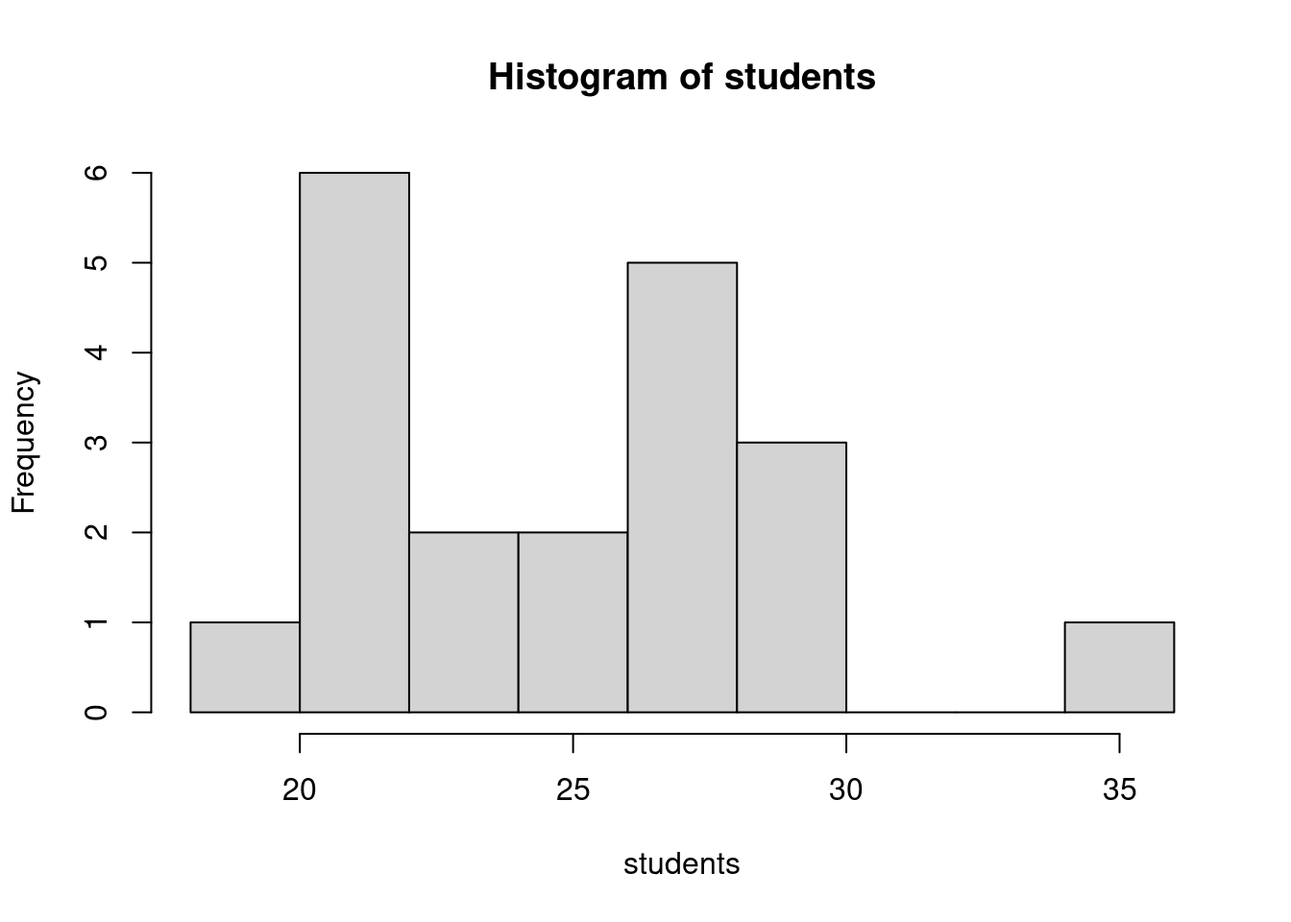
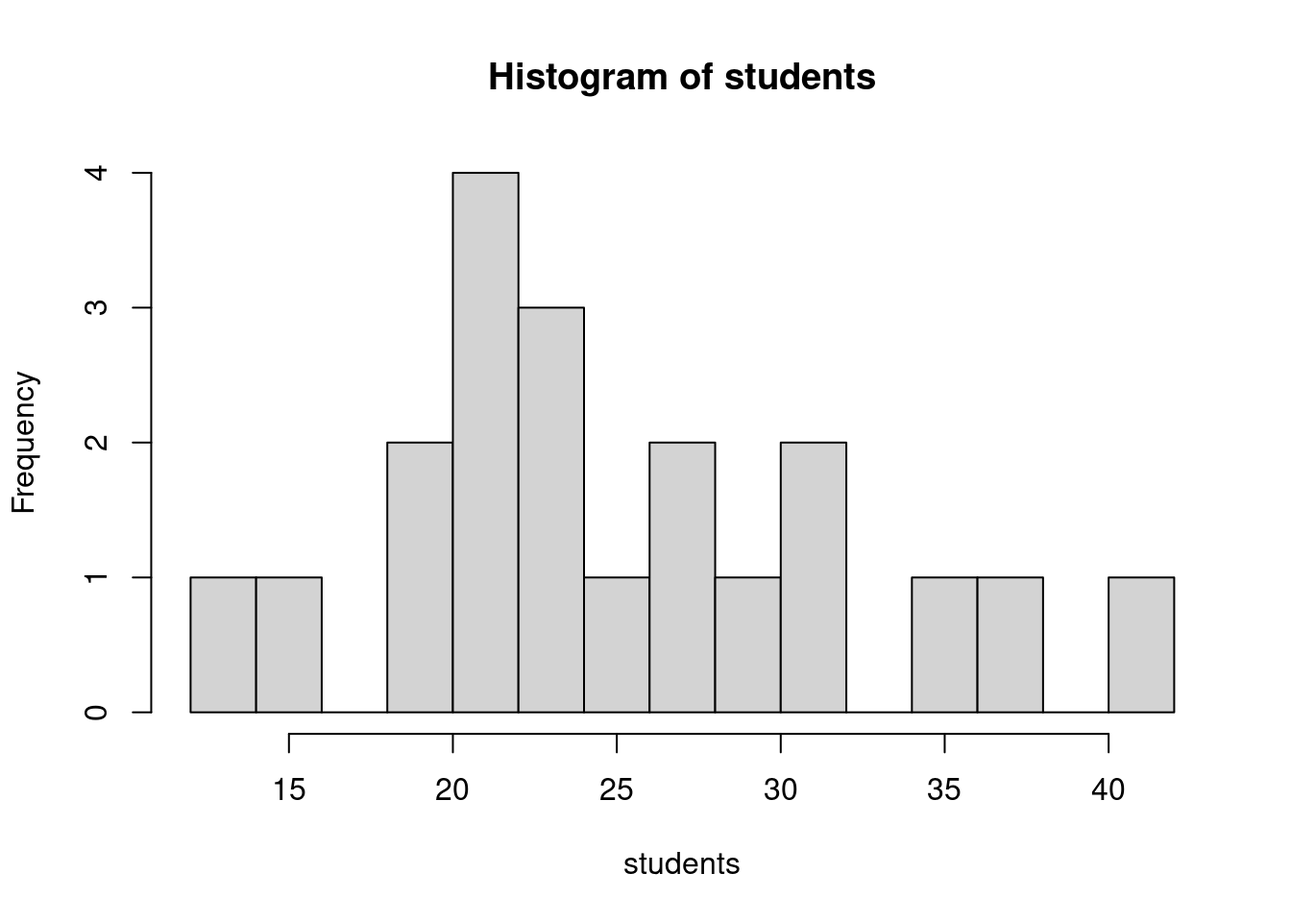
Added Expected Value

diff --git a/_book/discrete-probability.html b/_book/discrete-probability.html
@@ -24,7 +24,7 @@
 <meta name="author" content="Virgil U Pierce" />
 
 
-<meta name="date" content="2021-05-19" />
+<meta name="date" content="2021-05-20" />
 
   <meta name="viewport" content="width=device-width, initial-scale=1" />
   <meta name="apple-mobile-web-app-capable" content="yes" />
@@ -225,6 +225,11 @@ code span.wa { color: #60a0b0; font-weight: bold; font-style: italic; } /* Warni
 <li class="chapter" data-level="3.5.1" data-path="discrete-probability.html"><a href="discrete-probability.html#conclusion-to-the-motivating-question"><i class="fa fa-check"></i><b>3.5.1</b> Conclusion to the Motivating Question</a></li>
 <li class="chapter" data-level="3.5.2" data-path="discrete-probability.html"><a href="discrete-probability.html#general-cummulative-distribution-functions"><i class="fa fa-check"></i><b>3.5.2</b> General Cummulative Distribution Functions</a></li>
 </ul></li>
+<li class="chapter" data-level="3.6" data-path="discrete-probability.html"><a href="discrete-probability.html#motivating-problem---the-birthday-paradox"><i class="fa fa-check"></i><b>3.6</b> Motivating Problem - The Birthday Paradox</a></li>
+<li class="chapter" data-level="3.7" data-path="discrete-probability.html"><a href="discrete-probability.html#expected-value"><i class="fa fa-check"></i><b>3.7</b> Expected Value</a>
+<ul>
+<li class="chapter" data-level="3.7.1" data-path="discrete-probability.html"><a href="discrete-probability.html#the-expected-number-of-students-experiencing-food-insecurity"><i class="fa fa-check"></i><b>3.7.1</b> The Expected Number of Students Experiencing Food Insecurity</a></li>
+</ul></li>
 </ul></li>
 </ul>
 
@@ -325,18 +330,18 @@ code span.wa { color: #60a0b0; font-weight: bold; font-style: italic; } /* Warni
 <div class="sourceCode" id="cb1"><pre class="sourceCode r"><code class="sourceCode r"><span id="cb1-1"><a href="discrete-probability.html#cb1-1" aria-hidden="true" tabindex="-1"></a>x <span class="ot">&lt;-</span> <span class="fu">c</span>(<span class="st">&quot;H&quot;</span>, <span class="st">&quot;T&quot;</span>)</span>
 <span id="cb1-2"><a href="discrete-probability.html#cb1-2" aria-hidden="true" tabindex="-1"></a>result <span class="ot">&lt;-</span> <span class="fu">sample</span>(x, <span class="dv">200</span>, <span class="at">replace=</span><span class="cn">TRUE</span>)</span>
 <span id="cb1-3"><a href="discrete-probability.html#cb1-3" aria-hidden="true" tabindex="-1"></a>result</span></code></pre></div>
-<pre><code>##   [1] &quot;T&quot; &quot;T&quot; &quot;H&quot; &quot;T&quot; &quot;T&quot; &quot;H&quot; &quot;H&quot; &quot;T&quot; &quot;T&quot; &quot;T&quot; &quot;H&quot; &quot;H&quot; &quot;H&quot; &quot;T&quot; &quot;T&quot; &quot;T&quot; &quot;T&quot; &quot;T&quot;
-##  [19] &quot;T&quot; &quot;T&quot; &quot;H&quot; &quot;T&quot; &quot;T&quot; &quot;H&quot; &quot;T&quot; &quot;T&quot; &quot;H&quot; &quot;T&quot; &quot;T&quot; &quot;H&quot; &quot;T&quot; &quot;T&quot; &quot;T&quot; &quot;T&quot; &quot;H&quot; &quot;H&quot;
-##  [37] &quot;T&quot; &quot;H&quot; &quot;H&quot; &quot;H&quot; &quot;H&quot; &quot;T&quot; &quot;T&quot; &quot;T&quot; &quot;H&quot; &quot;H&quot; &quot;H&quot; &quot;H&quot; &quot;T&quot; &quot;T&quot; &quot;T&quot; &quot;T&quot; &quot;T&quot; &quot;T&quot;
-##  [55] &quot;H&quot; &quot;H&quot; &quot;T&quot; &quot;T&quot; &quot;T&quot; &quot;T&quot; &quot;H&quot; &quot;T&quot; &quot;T&quot; &quot;T&quot; &quot;T&quot; &quot;T&quot; &quot;H&quot; &quot;T&quot; &quot;H&quot; &quot;T&quot; &quot;H&quot; &quot;H&quot;
-##  [73] &quot;H&quot; &quot;H&quot; &quot;H&quot; &quot;H&quot; &quot;H&quot; &quot;H&quot; &quot;H&quot; &quot;H&quot; &quot;H&quot; &quot;T&quot; &quot;T&quot; &quot;T&quot; &quot;T&quot; &quot;T&quot; &quot;T&quot; &quot;T&quot; &quot;H&quot; &quot;H&quot;
-##  [91] &quot;T&quot; &quot;H&quot; &quot;T&quot; &quot;T&quot; &quot;T&quot; &quot;T&quot; &quot;T&quot; &quot;T&quot; &quot;H&quot; &quot;T&quot; &quot;T&quot; &quot;H&quot; &quot;T&quot; &quot;H&quot; &quot;T&quot; &quot;T&quot; &quot;T&quot; &quot;T&quot;
-## [109] &quot;T&quot; &quot;H&quot; &quot;T&quot; &quot;H&quot; &quot;H&quot; &quot;H&quot; &quot;H&quot; &quot;T&quot; &quot;H&quot; &quot;H&quot; &quot;H&quot; &quot;H&quot; &quot;T&quot; &quot;H&quot; &quot;H&quot; &quot;T&quot; &quot;H&quot; &quot;T&quot;
-## [127] &quot;T&quot; &quot;H&quot; &quot;H&quot; &quot;H&quot; &quot;T&quot; &quot;T&quot; &quot;H&quot; &quot;H&quot; &quot;H&quot; &quot;T&quot; &quot;H&quot; &quot;H&quot; &quot;H&quot; &quot;T&quot; &quot;H&quot; &quot;H&quot; &quot;T&quot; &quot;H&quot;
-## [145] &quot;H&quot; &quot;H&quot; &quot;T&quot; &quot;T&quot; &quot;T&quot; &quot;T&quot; &quot;T&quot; &quot;H&quot; &quot;H&quot; &quot;T&quot; &quot;T&quot; &quot;T&quot; &quot;T&quot; &quot;T&quot; &quot;T&quot; &quot;H&quot; &quot;H&quot; &quot;T&quot;
-## [163] &quot;H&quot; &quot;H&quot; &quot;T&quot; &quot;T&quot; &quot;H&quot; &quot;H&quot; &quot;H&quot; &quot;T&quot; &quot;H&quot; &quot;H&quot; &quot;T&quot; &quot;T&quot; &quot;T&quot; &quot;T&quot; &quot;H&quot; &quot;H&quot; &quot;T&quot; &quot;T&quot;
-## [181] &quot;H&quot; &quot;H&quot; &quot;H&quot; &quot;H&quot; &quot;T&quot; &quot;H&quot; &quot;T&quot; &quot;H&quot; &quot;T&quot; &quot;H&quot; &quot;H&quot; &quot;T&quot; &quot;H&quot; &quot;H&quot; &quot;T&quot; &quot;T&quot; &quot;H&quot; &quot;T&quot;
-## [199] &quot;H&quot; &quot;H&quot;</code></pre>
+<pre><code>##   [1] &quot;T&quot; &quot;H&quot; &quot;T&quot; &quot;H&quot; &quot;T&quot; &quot;T&quot; &quot;H&quot; &quot;T&quot; &quot;H&quot; &quot;H&quot; &quot;T&quot; &quot;T&quot; &quot;T&quot; &quot;T&quot; &quot;H&quot; &quot;T&quot; &quot;T&quot; &quot;T&quot;
+##  [19] &quot;H&quot; &quot;H&quot; &quot;T&quot; &quot;T&quot; &quot;H&quot; &quot;T&quot; &quot;T&quot; &quot;T&quot; &quot;T&quot; &quot;H&quot; &quot;T&quot; &quot;H&quot; &quot;T&quot; &quot;T&quot; &quot;H&quot; &quot;H&quot; &quot;T&quot; &quot;T&quot;
+##  [37] &quot;H&quot; &quot;H&quot; &quot;H&quot; &quot;T&quot; &quot;H&quot; &quot;H&quot; &quot;T&quot; &quot;H&quot; &quot;T&quot; &quot;T&quot; &quot;H&quot; &quot;T&quot; &quot;T&quot; &quot;H&quot; &quot;T&quot; &quot;H&quot; &quot;H&quot; &quot;H&quot;
+##  [55] &quot;T&quot; &quot;T&quot; &quot;T&quot; &quot;H&quot; &quot;H&quot; &quot;T&quot; &quot;H&quot; &quot;H&quot; &quot;H&quot; &quot;H&quot; &quot;H&quot; &quot;H&quot; &quot;T&quot; &quot;T&quot; &quot;T&quot; &quot;T&quot; &quot;T&quot; &quot;H&quot;
+##  [73] &quot;T&quot; &quot;T&quot; &quot;T&quot; &quot;H&quot; &quot;T&quot; &quot;T&quot; &quot;T&quot; &quot;T&quot; &quot;H&quot; &quot;H&quot; &quot;T&quot; &quot;H&quot; &quot;T&quot; &quot;T&quot; &quot;H&quot; &quot;T&quot; &quot;T&quot; &quot;H&quot;
+##  [91] &quot;H&quot; &quot;T&quot; &quot;T&quot; &quot;H&quot; &quot;T&quot; &quot;H&quot; &quot;H&quot; &quot;T&quot; &quot;H&quot; &quot;H&quot; &quot;T&quot; &quot;H&quot; &quot;H&quot; &quot;T&quot; &quot;H&quot; &quot;T&quot; &quot;T&quot; &quot;H&quot;
+## [109] &quot;T&quot; &quot;H&quot; &quot;H&quot; &quot;T&quot; &quot;H&quot; &quot;T&quot; &quot;H&quot; &quot;T&quot; &quot;T&quot; &quot;T&quot; &quot;H&quot; &quot;T&quot; &quot;T&quot; &quot;T&quot; &quot;T&quot; &quot;H&quot; &quot;H&quot; &quot;T&quot;
+## [127] &quot;H&quot; &quot;H&quot; &quot;H&quot; &quot;T&quot; &quot;T&quot; &quot;H&quot; &quot;T&quot; &quot;T&quot; &quot;T&quot; &quot;T&quot; &quot;T&quot; &quot;T&quot; &quot;H&quot; &quot;H&quot; &quot;H&quot; &quot;T&quot; &quot;H&quot; &quot;H&quot;
+## [145] &quot;T&quot; &quot;H&quot; &quot;T&quot; &quot;H&quot; &quot;H&quot; &quot;H&quot; &quot;H&quot; &quot;H&quot; &quot;H&quot; &quot;T&quot; &quot;H&quot; &quot;T&quot; &quot;T&quot; &quot;H&quot; &quot;T&quot; &quot;H&quot; &quot;T&quot; &quot;H&quot;
+## [163] &quot;T&quot; &quot;T&quot; &quot;H&quot; &quot;H&quot; &quot;T&quot; &quot;T&quot; &quot;T&quot; &quot;T&quot; &quot;T&quot; &quot;T&quot; &quot;T&quot; &quot;H&quot; &quot;H&quot; &quot;T&quot; &quot;H&quot; &quot;H&quot; &quot;T&quot; &quot;H&quot;
+## [181] &quot;H&quot; &quot;T&quot; &quot;T&quot; &quot;T&quot; &quot;H&quot; &quot;H&quot; &quot;T&quot; &quot;T&quot; &quot;H&quot; &quot;T&quot; &quot;H&quot; &quot;H&quot; &quot;T&quot; &quot;H&quot; &quot;T&quot; &quot;T&quot; &quot;H&quot; &quot;H&quot;
+## [199] &quot;T&quot; &quot;T&quot;</code></pre>
 <p>You can also pass the sample command a list of probabilities for each element of x; note that order matters so check it. For a fair coin the default of each outcome being equally likely works. However note that unfair coins are not unheard of - you can purchase them at magic and toy shops.</p>
 <p>A typical human trying to fake coin flips will distribute them too uniformly and will not have as many long sequences of “H” as we expect to see from an actual experiment.</p>
 </div>
@@ -346,16 +351,16 @@ code span.wa { color: #60a0b0; font-weight: bold; font-style: italic; } /* Warni
 <div class="sourceCode" id="cb3"><pre class="sourceCode r"><code class="sourceCode r"><span id="cb3-1"><a href="discrete-probability.html#cb3-1" aria-hidden="true" tabindex="-1"></a>x <span class="ot">&lt;-</span> <span class="fu">c</span>(<span class="dv">1</span>, <span class="dv">0</span>)</span>
 <span id="cb3-2"><a href="discrete-probability.html#cb3-2" aria-hidden="true" tabindex="-1"></a>result <span class="ot">&lt;-</span> <span class="fu">sample</span>(x, <span class="dv">130</span>, <span class="at">replace =</span> <span class="cn">TRUE</span>, <span class="at">prob=</span><span class="fu">c</span>(<span class="fl">0.38</span>, <span class="fl">0.62</span>) )</span>
 <span id="cb3-3"><a href="discrete-probability.html#cb3-3" aria-hidden="true" tabindex="-1"></a>result</span></code></pre></div>
-<pre><code>##   [1] 0 1 0 1 1 1 0 1 1 0 1 0 0 1 0 0 0 0 0 0 0 0 0 1 0 1 0 1 0 0 0 0 0 1 0 0 1
-##  [38] 0 1 0 1 0 0 1 1 0 1 0 0 0 1 1 0 0 0 0 1 0 0 0 0 1 0 0 1 1 0 1 0 1 0 0 1 1
-##  [75] 1 1 0 0 0 0 1 0 0 0 1 0 0 0 0 1 0 1 0 0 0 1 0 0 0 0 0 0 0 1 1 0 1 0 0 0 0
-## [112] 1 1 0 0 0 0 1 1 1 1 1 1 1 0 1 0 0 0 1</code></pre>
+<pre><code>##   [1] 0 0 1 1 0 0 0 0 0 0 0 0 0 1 1 0 0 0 0 1 1 0 1 0 1 0 0 0 1 0 0 0 1 0 0 0 1
+##  [38] 0 0 0 0 1 0 0 1 1 0 1 0 1 0 1 1 0 0 1 1 0 1 0 1 0 0 0 1 0 1 0 0 1 0 0 0 0
+##  [75] 0 1 0 1 1 1 0 1 0 1 1 1 0 0 1 0 1 1 0 0 0 0 0 1 0 1 0 0 1 1 1 0 0 1 0 0 0
+## [112] 0 1 1 0 0 1 1 1 0 0 0 0 0 0 0 0 0 0 0</code></pre>
 <p>You may notice that rather than using strings for the entries in <em>x</em> I used 1 and 0. The reason is that what we care about is the number of students that are food insecure, this is our random variable of interest and now we can compute its value by just summing up the numbers in <em>result</em> the value of which will be the number of 1s.</p>
 <div class="sourceCode" id="cb5"><pre class="sourceCode r"><code class="sourceCode r"><span id="cb5-1"><a href="discrete-probability.html#cb5-1" aria-hidden="true" tabindex="-1"></a><span class="fu">sum</span>(result)</span></code></pre></div>
-<pre><code>## [1] 49</code></pre>
+<pre><code>## [1] 47</code></pre>
 <p>Because the <em>sample</em> command uses (pseudo)-random numbers, if we run this again we will get a different result (also note each time I compile this textbook the values change). Do it a few times yourself and see what we get.</p>
 <div class="sourceCode" id="cb7"><pre class="sourceCode r"><code class="sourceCode r"><span id="cb7-1"><a href="discrete-probability.html#cb7-1" aria-hidden="true" tabindex="-1"></a><span class="fu">sum</span>(<span class="fu">sample</span>(x, <span class="dv">130</span>, <span class="at">replace=</span><span class="cn">TRUE</span>, <span class="at">prob=</span><span class="fu">c</span>(<span class="fl">0.38</span>, <span class="fl">0.62</span>)))</span></code></pre></div>
-<pre><code>## [1] 42</code></pre>
+<pre><code>## [1] 35</code></pre>
 <p>This is a little bit tedious to run a bunch of times and we also should be keeping track of the results. For example, what is the smallest value you have seen so far? Luckily, one of the things computers are absolutely brilliant at is doing the same thing over and over and keeping track of the results. Let me introduce you to one of the two real programming structures we will use in this class: a <em>for loop</em>. A for loop tells the computer to complete the same set of commands multiple times.</p>
 <div class="sourceCode" id="cb9"><pre class="sourceCode r"><code class="sourceCode r"><span id="cb9-1"><a href="discrete-probability.html#cb9-1" aria-hidden="true" tabindex="-1"></a><span class="co"># We are going to keep track of the results in a variable called trials, so we first initalize this variable as an empty column</span></span>
 <span id="cb9-2"><a href="discrete-probability.html#cb9-2" aria-hidden="true" tabindex="-1"></a>trials <span class="ot">&lt;-</span> <span class="fu">c</span>()</span>
@@ -369,17 +374,17 @@ code span.wa { color: #60a0b0; font-weight: bold; font-style: italic; } /* Warni
 <span id="cb9-10"><a href="discrete-probability.html#cb9-10" aria-hidden="true" tabindex="-1"></a>}</span>
 <span id="cb9-11"><a href="discrete-probability.html#cb9-11" aria-hidden="true" tabindex="-1"></a></span>
 <span id="cb9-12"><a href="discrete-probability.html#cb9-12" aria-hidden="true" tabindex="-1"></a>trials</span></code></pre></div>
-<pre><code>##   [1] 50 54 38 58 48 44 44 51 49 35 50 54 53 41 42 58 49 45 44 51 63 51 48 40 52
-##  [26] 49 46 50 47 49 56 47 49 49 50 51 54 53 42 46 56 49 38 61 46 50 42 51 48 41
-##  [51] 40 49 38 47 53 41 43 58 57 42 48 38 53 48 47 51 52 38 50 48 56 53 61 50 61
-##  [76] 41 43 43 43 50 53 48 49 39 50 42 49 48 47 51 57 50 51 52 47 47 56 42 49 49</code></pre>
+<pre><code>##   [1] 42 42 56 44 53 48 43 45 54 49 44 50 45 51 47 47 52 47 54 51 51 48 53 49 56
+##  [26] 58 53 54 52 44 55 57 48 54 59 46 46 49 55 44 45 54 50 47 49 60 49 39 50 62
+##  [51] 45 54 41 43 47 43 44 53 47 59 49 46 58 42 46 64 41 47 49 51 46 48 49 52 49
+##  [76] 51 49 55 46 49 58 51 50 46 42 48 56 50 47 49 51 54 44 40 49 43 59 64 43 44</code></pre>
 <p>Let’s use a historgram to look at the result:</p>
 <div class="sourceCode" id="cb11"><pre class="sourceCode r"><code class="sourceCode r"><span id="cb11-1"><a href="discrete-probability.html#cb11-1" aria-hidden="true" tabindex="-1"></a><span class="co"># The paramter breaks is determining how many bins to use</span></span>
 <span id="cb11-2"><a href="discrete-probability.html#cb11-2" aria-hidden="true" tabindex="-1"></a><span class="fu">hist</span>(trials, <span class="at">breaks=</span><span class="dv">10</span>)</span></code></pre></div>
 <p><img src="_main_files/figure-html/unnamed-chunk-6-1.png" width="672" /></p>
 <div class="sourceCode" id="cb12"><pre class="sourceCode r"><code class="sourceCode r"><span id="cb12-1"><a href="discrete-probability.html#cb12-1" aria-hidden="true" tabindex="-1"></a><span class="fu">summary</span>(trials)</span></code></pre></div>
 <pre><code>##    Min. 1st Qu.  Median    Mean 3rd Qu.    Max. 
-##   35.00   44.00   49.00   48.50   51.25   63.00</code></pre>
+##   39.00   46.00   49.00   49.51   53.00   64.00</code></pre>
 <p>So interestingly the minimum value is not very small. What does this tell us about the number of mathematics majors we might see that are food insecure? What would our interpretation be if we found only 10 of the mathematics majors were food insecure?</p>
 <p>Finally you can probably tell me you are not surprised that the mean is close to</p>
 <div class="sourceCode" id="cb14"><pre class="sourceCode r"><code class="sourceCode r"><span id="cb14-1"><a href="discrete-probability.html#cb14-1" aria-hidden="true" tabindex="-1"></a><span class="fl">0.38</span> <span class="sc">*</span> <span class="dv">130</span></span></code></pre></div>
@@ -488,7 +493,40 @@ code span.wa { color: #60a0b0; font-weight: bold; font-style: italic; } /* Warni
 <p>Note: We only plotted the distribution function at integer values of r because it is zero everywhere else. However the cumulative distribution function gives the probability that <span class="math inline">\(Y \leq r\)</span> and so it has a step like behavior.</p>
 <p>Note: I generally LOVE using software to draw plots as I am an awful artist - most of my low grades in math classes like trigonometry and geometry in high school were because of my drawings. However one place where software consistently messes us up is in drawing step functions - this picture would be better without the vertical lines connecting the horizontal segments.</p>
 <p>Vary p and n to see how the plot changes. In particular for small values of n the steps should become more prominent. You might have to increase the 10 in the code snippet to get the mesh to be finer - if you notice the vertical segments are not looking very vertical this is what should be changed.</p>
+</div>
+</div>
+<div id="motivating-problem---the-birthday-paradox" class="section level2" number="3.6">
+<h2><span class="header-section-number">3.6</span> Motivating Problem - The Birthday Paradox</h2>
+<p>In a class of 25 students, how likely is it that two or more of them share the same birthday (day / month)? This seems like it might be a Binomial Trial; however are the trials identical and independent?</p>
+<p><strong>Question:</strong> write a birthday problem that will be a Binomial Trial. Explain why in that case the trials are identical and independent.</p>
+</div>
+<div id="expected-value" class="section level2" number="3.7">
+<h2><span class="header-section-number">3.7</span> Expected Value</h2>
+<p>The <em>expected value</em> of a quantitative random variable is defined to be the mean of the values of the variable over a large number of repeated trials of the variable. Given a discrete probability distribution for a random variable <span class="math inline">\(Y\)</span>: <span class="math inline">\(p(r) = P(Y=r)\)</span> we can compute the expected value of <span class="math inline">\(Y\)</span> by taking the weighted average of all possible values of <span class="math inline">\(r\)</span> weighted by the likliehood of that r:</p>
+<p><span class="math display">\[ E(Y) = \sum_{r: p(r) \neq 0} r p(r) \]</span></p>
+<div id="the-expected-number-of-students-experiencing-food-insecurity" class="section level3" number="3.7.1">
+<h3><span class="header-section-number">3.7.1</span> The Expected Number of Students Experiencing Food Insecurity</h3>
+<p>Returning to our problem. If we have a group of 130 randomly selected US college students, the likliehood that any one of them is experiencing food insecurity is 0.38; and assuming that they are independently selected the number of ones in the 130 that are experiencing food insecurity fits the Binomial Distribution. Thus we can compute the expected number by summing over r = 0, 1, 2, …, 130 with each r weighted by <span class="math display">\[ \binom{130}{r} 0.38^r \cdot 0.62^{130 - r} \]</span></p>
+<p>Using R we get:</p>
+<div class="sourceCode" id="cb31"><pre class="sourceCode r"><code class="sourceCode r"><span id="cb31-1"><a href="discrete-probability.html#cb31-1" aria-hidden="true" tabindex="-1"></a>r <span class="ot">=</span> <span class="fu">c</span>(<span class="dv">0</span><span class="sc">:</span><span class="dv">130</span>)</span>
+<span id="cb31-2"><a href="discrete-probability.html#cb31-2" aria-hidden="true" tabindex="-1"></a><span class="fu">sum</span>( r<span class="sc">*</span><span class="fu">dbinom</span>(r, <span class="dv">130</span>, <span class="fl">0.38</span>))</span></code></pre></div>
+<pre><code>## [1] 49.4</code></pre>
+<p>It is probably not shocking that this is the same number we saw above for <span class="math inline">\(130 \cdot 0.38 = 49.4\)</span> and that it is also close to the mean we got in our sampling experiment we ran above.</p>
+<div id="expected-value-of-a-binomial-distribution" class="section level4" number="3.7.1.1">
+<h4><span class="header-section-number">3.7.1.1</span> Expected Value of a Binomial Distribution</h4>
+<p>We can show that this always happens. Note that in general this is a class that I want to have focus on computations - so while we are going to give the exact proofs of some of our results like this one, we will do them as a class rather than have you work on them as excersises. I do think that this computations could be used to motivate some problems you have students do in an algebra or pre-calculus or calculus class, but they are sort of parallel but not part of the goals for our class.</p>
+<p>Let <span class="math inline">\(Y\)</span> be a binomial distributed random variable for n trials with probability of success in each trial p. Define <span class="math inline">\(q = 1-p\)</span>. Then we have</p>
+<p><span class="math display">\[ E(Y) = \sum_{r=0}^n r \binom{n}{r} p^r q^{n-r} \]</span>
+Note that the first term in this sum is in fact 0 and so we could index the sum from 1; then expand the binomial coefficient:</p>
+<p><span class="math display">\[ E(Y) = \sum_{r=1}^n \frac{n!}{(r-1)! (n-r)!} p^r q^{n-r} \]</span></p>
+<p>We then notice that the terms in this sum are themselves close to being binomial probabilities for a different number of trials. For example what happens if we factor out <span class="math inline">\(np\)</span> from each term:</p>
+<p><span class="math display">\[ E(Y) = np \sum_{r=1}^n \frac{(n-1)!}{ (r-1)! (n-1 - (r-1))! } p^{r-1} q^{n-1 - (r-1) } \]</span></p>
+<p>and finally we note that we could re-base the index of the sum back to 0:</p>
+<p><span class="math display">\[ E(Y) = np \sum_{s = 0}^{n-1} \binom{n-1}{s} p^s q^{n-1 -s} \]</span></p>
+<p>and because the sum is now a sum over all of the probabilities of a binomial distribution it gives 1 and so: <span class="math inline">\(E(Y) = np\)</span>.</p>
+<p>Which is <strong>EXACTLY</strong> what your instinct already told you we should get!!!!</p>
 
+</div>
 </div>
 </div>
 </div>

diff --git a/_book/what-is-statistics.html b/_book/what-is-statistics.html
@@ -24,7 +24,7 @@
 <meta name="author" content="Virgil U Pierce" />
 
 
-<meta name="date" content="2021-05-19" />
+<meta name="date" content="2021-05-20" />
 
   <meta name="viewport" content="width=device-width, initial-scale=1" />
   <meta name="apple-mobile-web-app-capable" content="yes" />
@@ -311,7 +311,7 @@ While I am collecting this data you can reflect on this funny musing. I grew up 
 <span id="cb2-5"><a href="what-is-statistics.html#cb2-5" aria-hidden="true" tabindex="-1"></a><span class="co"># students &lt;- c() </span></span>
 <span id="cb2-6"><a href="what-is-statistics.html#cb2-6" aria-hidden="true" tabindex="-1"></a></span>
 <span id="cb2-7"><a href="what-is-statistics.html#cb2-7" aria-hidden="true" tabindex="-1"></a>students</span></code></pre></div>
-<pre><code>##  [1] 21 21 22 29 36 22 24 27 22 30 21 28 18 27 25 29 26 28 27 24</code></pre>
+<pre><code>##  [1] 22 19 29 41 31 27 26 23 20 23 21 13 28 22 16 38 21 31 36 23</code></pre>
 <p><em>R Notes</em>: c() stands for column and is one of the most basic data structures in R. Most things we will build will either manipulate columns directly or will use structures built out of columns.</p>
 <p>Comments in commands start with <em>hash symbols</em>.</p>
 <p>Another syntax note: R uses both = and &lt;- for assignment though they have slightly different meanings. They both work as you would expect, however &lt;- has some nice positives in the detailed differences and it is worth getting into the habit of using it.</p>
@@ -321,11 +321,11 @@ While I am collecting this data you can reflect on this funny musing. I grew up 
 <p>To get started we can use <em>summary</em> to get an overview of what our list of student enrollments look like. Review the meaning of each of these.</p>
 <div class="sourceCode" id="cb4"><pre class="sourceCode r"><code class="sourceCode r"><span id="cb4-1"><a href="what-is-statistics.html#cb4-1" aria-hidden="true" tabindex="-1"></a><span class="fu">summary</span>(students)</span></code></pre></div>
 <pre><code>##    Min. 1st Qu.  Median    Mean 3rd Qu.    Max. 
-##   18.00   22.00   25.50   25.35   28.00   36.00</code></pre>
+##    13.0    21.0    23.0    25.5    29.5    41.0</code></pre>
 <p>Mean and Median are <em>measures of center</em>, while the quartiles are <em>measures of spread</em>. One measure of spread missing is the variance or its square root standard deviation:</p>
 <div class="sourceCode" id="cb6"><pre class="sourceCode r"><code class="sourceCode r"><span id="cb6-1"><a href="what-is-statistics.html#cb6-1" aria-hidden="true" tabindex="-1"></a><span class="fu">var</span>(students); <span class="fu">sqrt</span>(<span class="fu">var</span>(students))</span></code></pre></div>
-<pre><code>## [1] 17.50263</code></pre>
-<pre><code>## [1] 4.183615</code></pre>
+<pre><code>## [1] 52.15789</code></pre>
+<pre><code>## [1] 7.222042</code></pre>
 <p>The variance is computed by taking the sum of the square differences between the data and the mean and then dividing that by number of items minus one; we will explain why this is what we divide by later in class:
 <span class="math display">\[ S = \frac{1}{n-1} \sum_{j=1}^n (y_j - \bar{y} )^2 \]</span> where <span class="math inline">\(\bar{y}\)</span> is the mean of the sample made up of the <span class="math inline">\(\{ y_1, y_2, \dots, y_n \}\)</span>.</p>
 <p>In the code blocks below I will add some comments about what we are doing:</p>
@@ -335,20 +335,19 @@ While I am collecting this data you can reflect on this funny musing. I grew up 
 <span id="cb9-4"><a href="what-is-statistics.html#cb9-4" aria-hidden="true" tabindex="-1"></a></span>
 <span id="cb9-5"><a href="what-is-statistics.html#cb9-5" aria-hidden="true" tabindex="-1"></a><span class="co"># R can then do the arithmetic and when we combine a list of numbers with a single number and square it, it knows what we mean.</span></span>
 <span id="cb9-6"><a href="what-is-statistics.html#cb9-6" aria-hidden="true" tabindex="-1"></a>(students <span class="sc">-</span> ybar)<span class="sc">^</span><span class="dv">2</span></span></code></pre></div>
-<pre><code>##  [1]  18.9225  18.9225  11.2225  13.3225 113.4225  11.2225   1.8225   2.7225
-##  [9]  11.2225  21.6225  18.9225   7.0225  54.0225   2.7225   0.1225  13.3225
-## [17]   0.4225   7.0225   2.7225   1.8225</code></pre>
+<pre><code>##  [1]  12.25  42.25  12.25 240.25  30.25   2.25   0.25   6.25  30.25   6.25
+## [11]  20.25 156.25   6.25  12.25  90.25 156.25  20.25  30.25 110.25   6.25</code></pre>
 <div class="sourceCode" id="cb11"><pre class="sourceCode r"><code class="sourceCode r"><span id="cb11-1"><a href="what-is-statistics.html#cb11-1" aria-hidden="true" tabindex="-1"></a><span class="co"># Then as we said, we sum over all of these and then divide by the number of them</span></span>
 <span id="cb11-2"><a href="what-is-statistics.html#cb11-2" aria-hidden="true" tabindex="-1"></a><span class="co"># minus 1</span></span>
 <span id="cb11-3"><a href="what-is-statistics.html#cb11-3" aria-hidden="true" tabindex="-1"></a></span>
 <span id="cb11-4"><a href="what-is-statistics.html#cb11-4" aria-hidden="true" tabindex="-1"></a><span class="fu">sum</span>( (students <span class="sc">-</span> ybar)<span class="sc">^</span><span class="dv">2</span> ) <span class="sc">/</span> ( <span class="fu">length</span>(students) <span class="sc">-</span> <span class="dv">1</span> )</span></code></pre></div>
-<pre><code>## [1] 17.50263</code></pre>
+<pre><code>## [1] 52.15789</code></pre>
 <p>Note why we compute variance in this way. We are trying to understand how far the data moves from the mean <span class="math inline">\(\bar{y}\)</span>. However we can’t just sum over the differences as that will just add up to zero:</p>
 <div class="sourceCode" id="cb13"><pre class="sourceCode r"><code class="sourceCode r"><span id="cb13-1"><a href="what-is-statistics.html#cb13-1" aria-hidden="true" tabindex="-1"></a><span class="fu">sum</span>(students <span class="sc">-</span> ybar )</span></code></pre></div>
-<pre><code>## [1] -2.842171e-14</code></pre>
+<pre><code>## [1] 0</code></pre>
 <p>We have choices though, we could sum over the absolute value and indeed that does give us a notion of spread. Here for example is the corresponding average for absolute deviation:</p>
 <div class="sourceCode" id="cb15"><pre class="sourceCode r"><code class="sourceCode r"><span id="cb15-1"><a href="what-is-statistics.html#cb15-1" aria-hidden="true" tabindex="-1"></a><span class="fu">sum</span>( <span class="fu">abs</span>(students <span class="sc">-</span> ybar)) <span class="sc">/</span> (<span class="fu">length</span>(students) <span class="sc">-</span> <span class="dv">1</span> )</span></code></pre></div>
-<pre><code>## [1] 3.526316</code></pre>
+<pre><code>## [1] 6.052632</code></pre>
 <p>However the advantage of summing over the squares is that it brings in tools from Calculus that work with quadratic expressions but not with absolute value expressions. We then intend to take an average. For reasons we will justify later, it turns out the correct average to do is to divide by the size of our sample minus 1: <span class="math inline">\(n-1\)</span> is called the degrees of freedom (roughly computing <span class="math inline">\(\bar{y}\)</span> from the sample has used up one degree of freedom).</p>
 <p>Note the units on these two statistics: the variance is the average of the sum of the squares (by the number of degrees of freedom) so its units are the square of the units of our sample data (<em>students squared</em> in this case); and then the standard deviation is the square root of the variance and so has units of the original data (<em>students</em> in this case).</p>
 </div>
